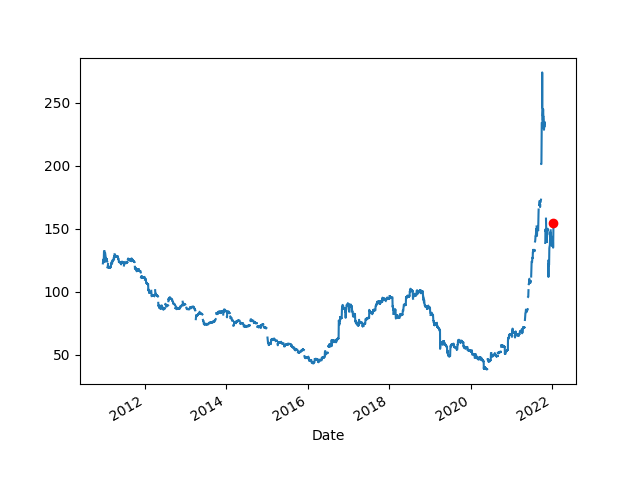
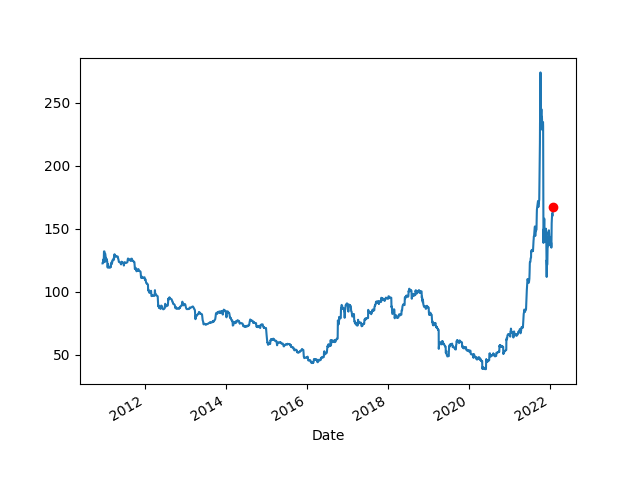
-

diff --git a/en/2019/05/stats.md b/en/2019/05/stats.md
@@ -880,6 +880,7 @@ url = base_fin_url + "/MTF=F?period1=" + str(start) + "&period2=" + str(end) + "
 r = urllib2.urlopen(url).read()
 file = io.BytesIO(r)
 df = pd.read_csv(file,index_col='Date',parse_dates=True)['Adj Close']
+df = df.interpolate()
 df.plot()
 plt.plot(df.tail(1).index, df.tail(1),'ro')
 print (df.tail(7))
@@ -888,13 +889,13 @@ plt.savefig('coal.png')
 
 ```text
 Date
-2022-01-07    138.500000
-2022-01-09           NaN
-2022-01-10    138.750000
-2022-01-11    135.000000
-2022-01-12    139.000000
-2022-01-13    148.600006
-2022-01-14    154.350006
+2022-01-23    162.675003
+2022-01-24    163.350006
+2022-01-25    164.250000
+2022-01-26    165.699997
+2022-01-27    165.649994
+2022-01-28    167.199997
+2022-01-30    167.199997
 Name: Adj Close, dtype: float64
 ```
 
